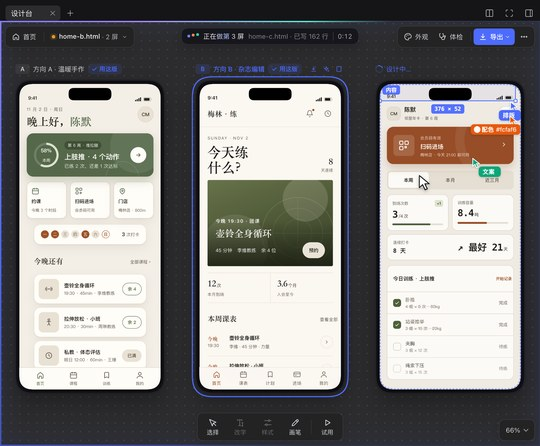
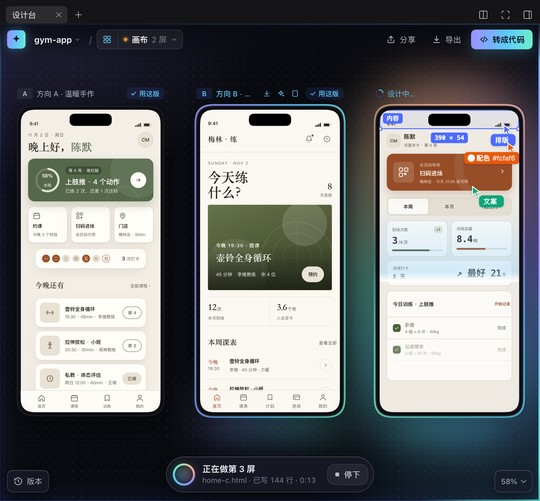
1.0：README 顶图和演示动图按新界面重拍；「用这版」悬停不跑；Windows 灵动条
- 屏名旁的「用这版」钉在最右、悬停不变大小（原来悬停冒出小按钮把它挤走，点到「再出两版」）
- 认不出产品名时，几屏放一个文件夹里项目名就叫文件夹名（原来显示 home-c.html）
- 一屏打不开时只看打得开的几屏认产品名
- e2e：出错卡先回画布再测「打不开」标签；首页风格面板先关掉上一步的消息条再量

diff --git a/lib/client.js b/lib/client.js
@@ -3060,19 +3060,21 @@ window.__ModuleLoader__.load({
 .ddp-ishot img{max-width:100%;max-height:calc(100% - 30px);border-radius:6px;box-shadow:0 8px 30px rgba(0,0,0,.4)}
 .ddp-ishot span{color:rgba(255,255,255,.8);font-size:12px}
 /* 屏头小按钮：悬停或选中那屏才出来（平时不占地方，给屏名和「用这版」留位置） */
-.ddp-act{margin-left:auto;display:none;gap:1px;flex:none}
+.ddp-act{margin-left:auto;display:none;gap:1px;flex:0 1 auto;min-width:0;overflow:hidden;order:2}
 .ddp-cell:hover .ddp-act,.ddp-cell.sel .ddp-act{display:flex}
 .ddp-vt{flex:none;display:inline-flex;align-items:center;justify-content:center;min-width:18px;height:18px;padding:0 4px;border-radius:5px;background:rgba(127,127,127,.14);color:var(--dsw-alias-label-secondary);font-size:11px;font-weight:600}
 .ddp-cell.sel .ddp-vt{background:rgba(77,107,254,.14);color:var(--dd-acc,${ACCENT})}
-.ddp-take{flex:none;display:inline-flex;align-items:center;gap:3px;height:20px;padding:0 8px 0 6px;border:0;border-radius:10px;
+.ddp-take{order:3;margin-left:auto;flex:none;display:inline-flex;align-items:center;gap:3px;height:20px;padding:0 8px 0 6px;border:0;border-radius:10px;
   background:rgba(77,107,254,.12);color:var(--dd-acc,${ACCENT});font:inherit;font-size:11px;font-weight:500;cursor:pointer}
 .ddp-take:hover{background:rgba(77,107,254,.2)}
 .ddp-take svg{width:12px;height:12px;flex:none}
 /* 画布缩得很小时只留 ✓，屏名先保住 */
 .ddp-lab{container-type:inline-size}
-.ddp-lab>span:first-of-type{min-width:3em}
+.ddp-lab>span:first-of-type{min-width:3em;flex-shrink:99}
+/* 「用这版」钉在最右、悬停不变大小：小按钮从它左边冒出来挤的是屏名，鼠标对着它时它不会跑开 */
+.ddp-cell:hover .ddp-take,.ddp-cell.sel .ddp-take{margin-left:0}
 @container (max-width:130px){.ddp-take{padding:0 4px}.ddp-take span{display:none}}
-@container (max-width:230px){.ddp-cell:hover .ddp-take,.ddp-cell.sel .ddp-take{padding:0 4px}.ddp-cell:hover .ddp-take span,.ddp-cell.sel .ddp-take span{display:none}}
+@container (max-width:230px){.ddp-cell.sel .ddp-take{padding:0 4px}.ddp-cell.sel .ddp-take span{display:none}.ddp-cell:hover:not(.sel) .ddp-lab>span:first-of-type{min-width:0}}
 .ddp-act .ddp-btn{height:22px;min-width:22px;padding:0 4px;color:var(--dd-acc,${ACCENT})}
 .ddp-act .ddp-btn svg{width:13px;height:13px}
 /* 屏头的小按钮：屏够宽就带字（导出 / 再出两版 / 单看），窄了只剩图标，悬停看说明 */
@@ -13586,7 +13588,7 @@ body:not([data-ds-dark-theme]) .ddp .ddp-homebar .seg::before{box-shadow:var(--d
             logo,
             h(PageMenu, {
               t,
-              name: brand || stLabel || t('canvasShort'),
+              name: brand || (fileTarget && screens.length > 1 && String(st.target.file || '').split(/[\\/]/).slice(-2, -1)[0]) || stLabel || t('canvasShort'), // 认不出产品名：几屏放一个文件夹里就叫文件夹名
               open: pgMenu,
               setOpen: setPgMenu,
               kind,
